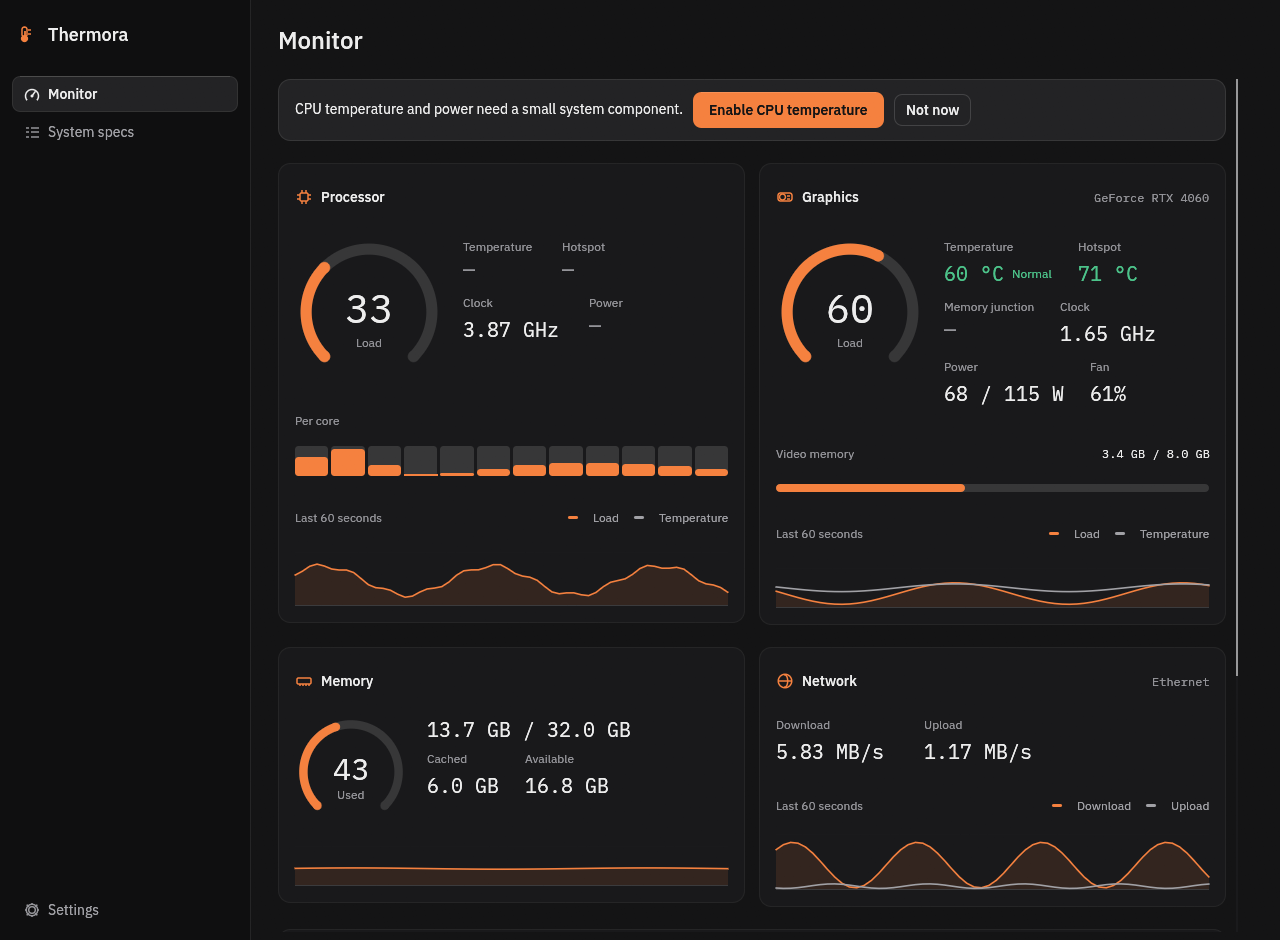
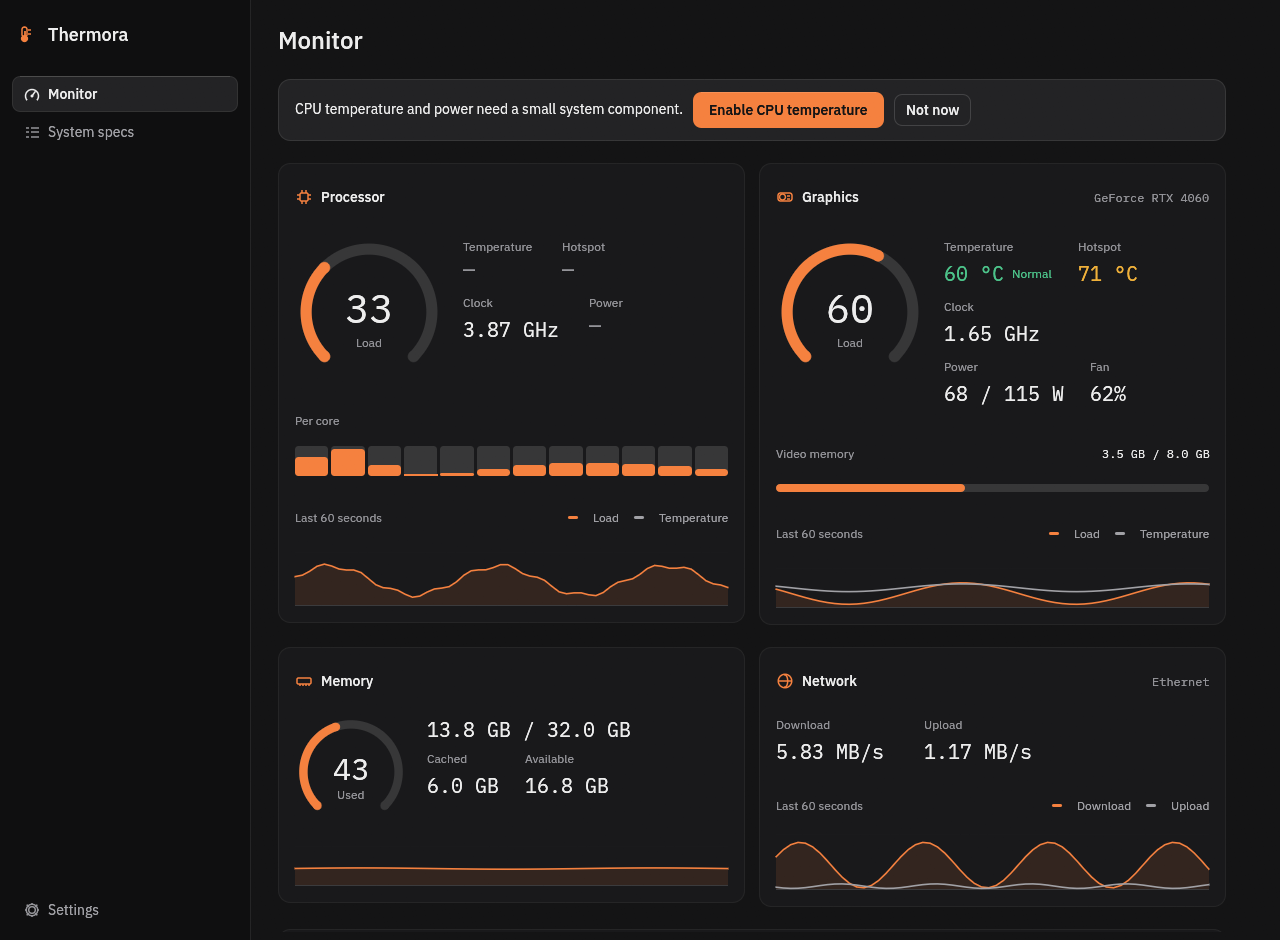
Hide readings the hardware cannot give, GPU power fallbacks, active time from idle time with a per-drive chart, cheaper window

diff --git a/src/sensors/nvidia.rs b/src/sensors/nvidia.rs
@@ -6,6 +6,19 @@ use crate::specs::{Component, Field, Group};
 use nvml_wrapper::enum_wrappers::device::{Clock, TemperatureSensor};
 use nvml_wrapper::Nvml;
 
+/// Which source gave the GPU power draw this session (shown by `--probe`).
+static POWER_SOURCE: std::sync::Mutex<&'static str> = std::sync::Mutex::new("none");
+
+fn set_source(s: &'static str) {
+    if let Ok(mut g) = POWER_SOURCE.lock() {
+        *g = s;
+    }
+}
+
+pub fn power_source() -> &'static str {
+    POWER_SOURCE.lock().map(|g| *g).unwrap_or("none")
+}
+
 pub struct Nvidia {
     nvml: Nvml,
     #[cfg(windows)]
@@ -43,7 +56,7 @@ impl Nvidia {
             vram_used: mem.as_ref().map(|m| m.used).unwrap_or(0),
             vram_total: mem.as_ref().map(|m| m.total).unwrap_or(0),
             clock_mhz: Some(rd(d.clock_info(Clock::Graphics)).map(|c| c as f32)),
-            power: Some(rd(d.power_usage()).map(|p| p as f32 / 1000.0)),
+            power: Some(self.power(&d).ok_or(Why::NotReported)),
             power_limit: Some(rd(d.enforced_power_limit()).map(|p| p as f32 / 1000.0)),
             fan: Some(rd(d.fan_speed(0)).map(|f| f as f32)),
         };
@@ -63,6 +76,42 @@ impl Nvidia {
             }
         }
         Some(g)
+    }
+
+    /// GPU power in watts. Tries, in order: NVML instantaneous power, NVML field values (instant, then average),
+    /// then the private NvAPI power topology (a percentage of the board's power limit) times the limit.
+    fn power(&self, d: &nvml_wrapper::Device) -> Option<f32> {
+        if let Ok(mw) = d.power_usage() {
+            set_source("NVML power_usage");
+            return Some(mw as f32 / 1000.0);
+        }
+        use nvml_wrapper::structs::device::FieldId;
+        for (id, name) in [(186u32, "NVML field POWER_INSTANT"), (185, "NVML field POWER_AVERAGE")] {
+            if let Ok(v) = d.field_values_for(&[FieldId(id)]) {
+                if let Some(Ok(sample)) = v.into_iter().next() {
+                    use nvml_wrapper::enums::device::SampleValue::*;
+                    let mw = match sample.value {
+                        Ok(U32(x)) => x as f64,
+                        Ok(U64(x)) => x as f64,
+                        Ok(I64(x)) => x as f64,
+                        Ok(F64(x)) => x,
+                        _ => continue,
+                    };
+                    if mw > 0.0 {
+                        set_source(name);
+                        return Some(mw as f32 / 1000.0);
+                    }
+                }
+            }
+        }
+        #[cfg(windows)]
+        if let (Some(api), Ok(limit)) = (&self.nvapi, d.enforced_power_limit()) {
+            if let Some(pct) = api.power_percent() {
+                set_source("NvAPI power topology x limit");
+                return Some(pct / 100.0 * (limit as f32 / 1000.0));
+            }
+        }
+        None
     }
 
     pub fn specs(&self) -> Vec<Component> {
@@ -113,6 +162,7 @@ mod nvapi {
         _lib: Library,
         gpu: *mut c_void,
         get_sensors: unsafe extern "C" fn(*mut c_void, *mut Sensors) -> i32,
+        get_power: Option<unsafe extern "C" fn(*mut c_void, *mut PowerTopology) -> i32>,
         mask: u32,
     }
 
@@ -125,6 +175,14 @@ mod nvapi {
         mask: u32,
         reserved: [i32; 8],
         temps: [i32; 32],
+    }
+
+    #[repr(C)]
+    struct PowerTopology {
+        version: u32,
+        count: u32,
+        /// (domain, reserved, power in thousandths of a percent of the power limit, reserved) x 4
+        entries: [[u32; 4]; 4],
     }
 
     type Query = unsafe extern "C" fn(u32) -> *const c_void;
@@ -151,7 +209,9 @@ mod nvapi {
                     return None;
                 }
                 let get_sensors: unsafe extern "C" fn(*mut c_void, *mut Sensors) -> i32 = std::mem::transmute(sensors);
-                let mut api = NvApi { _lib: lib, gpu: handles[0], get_sensors, mask: 0 };
+                let power = q(0xEDCF624E);
+                let get_power = if power.is_null() { None } else { Some(std::mem::transmute::<*const c_void, unsafe extern "C" fn(*mut c_void, *mut PowerTopology) -> i32>(power)) };
+                let mut api = NvApi { _lib: lib, gpu: handles[0], get_sensors, get_power, mask: 0 };
                 // Same probing as LibreHardwareMonitor: grow the mask bit by bit until the call fails.
                 let mut s = Sensors { version: (std::mem::size_of::<Sensors>() as u32) | (2 << 16), mask: 0, reserved: [0; 8], temps: [0; 32] };
                 for bit in 0..32 {
@@ -163,6 +223,18 @@ mod nvapi {
                 }
                 (api.mask != 0).then_some(api)
             }
+        }
+
+        /// Board power as a percentage of the power limit (NvAPI_GPU_ClientPowerTopologyGetStatus, domain 0 = GPU).
+        pub fn power_percent(&self) -> Option<f32> {
+            let f = self.get_power?;
+            let mut t = PowerTopology { version: (std::mem::size_of::<PowerTopology>() as u32) | (1 << 16), count: 0, entries: [[0; 4]; 4] };
+            // SAFETY: valid handle and a struct of the version we pass; the status is checked.
+            if unsafe { f(self.gpu, &mut t) } != 0 || t.count == 0 {
+                return None;
+            }
+            let e = t.entries.iter().take(t.count.min(4) as usize).find(|e| e[0] == 0 && e[2] > 0)?;
+            Some(e[2] as f32 / 1000.0)
         }
 
         pub fn thermal_sensors(&self) -> Result<[i32; 32], i32> {

diff --git a/src/ui/monitor.rs b/src/ui/monitor.rs
@@ -18,7 +18,7 @@ fn band_color(b: Band, p: &Pal) -> Color32 {
 
 /// A value that eases to its target: numbers glide instead of jumping.
 fn glide(ui: &Ui, key: &str, target: f32) -> f32 {
-    ui.ctx().animate_value_with_time(egui::Id::unique(("glide", key)), target, 0.45)
+    ui.ctx().animate_value_with_time(egui::Id::unique(("glide", key)), target, 0.2)
 }
 
 /// What a tile shows.
@@ -41,6 +41,15 @@ impl App {
     fn tile(&self, ui: &mut Ui, p: &Pal, label: &str, val: Val, band: Option<(Band, &str)>) -> bool {
         let t = self.s();
         let mut clicked = false;
+        // A reading this hardware can never give is hidden (it would be a permanent dash). A dash stays only for what
+        // needs an action (CPU temperature before Enable) or is just starting.
+        match &val {
+            Val::Text(..) => {
+                self.seen.borrow_mut().insert(label.to_string());
+            }
+            Val::Missing(Why::NotReported) if !self.seen.borrow().contains(label) => return false,
+            _ => {}
+        }
         ui.vertical(|ui| {
             ui.spacing_mut().item_spacing.y = 2.0;
             ui.label(RichText::new(label).font(theme::reg(12.0)).color(p.muted));
@@ -304,10 +313,10 @@ impl App {
                             let b = band(SensorKind::Nvme, *v);
                             ui.label(RichText::new(format!("{v:.0} °C")).font(theme::mono(14.0)).color(band_color(b, p)));
                         }
-                        Some(Err(w)) => {
+                        Some(Err(w)) if *w != Why::NotReported => {
                             ui.label(RichText::new(crate::specs::DASH).font(theme::mono(14.0)).color(p.muted)).on_hover_text(why_text(t, *w));
                         }
-                        None => {}
+                        Some(Err(_)) | None => {}
                     };
                 });
             });
@@ -315,13 +324,16 @@ impl App {
             ui.horizontal_top(|ui| {
                 ui.spacing_mut().item_spacing.x = 28.0;
                 ui.vertical(|ui| {
-                    ui.set_width(150.0);
-                    ui.label(RichText::new(t.activity).font(theme::reg(12.0)).color(p.muted));
-                    ui.add_space(2.0);
-                    let (r, _) = ui.allocate_exact_size(vec2(130.0, 8.0), Sense::hover());
-                    widgets::bar(ui.painter(), r, glide(ui, &format!("disk{i}"), d.busy) / 100.0, p.accent, widgets::track(p));
-                    ui.add_space(2.0);
-                    ui.label(RichText::new(format!("{:.0}%", d.busy)).font(theme::mono(13.0)).color(p.text));
+                    ui.spacing_mut().item_spacing.y = 2.0;
+                    ui.horizontal(|ui| {
+                        ui.spacing_mut().item_spacing.x = 8.0;
+                        ui.label(RichText::new(t.activity).font(theme::reg(12.0)).color(p.muted));
+                        ui.label(RichText::new(format!("{:.0}%", glide(ui, &format!("disk{i}"), d.busy))).font(theme::mono(12.0)).color(p.text));
+                    });
+                    let (rd, wr): (Vec<f32>, Vec<f32>) = self.hist.disks.get(i).map(|h| (h.0.iter().collect(), h.1.iter().collect())).unwrap_or_default();
+                    let max = rd.iter().chain(wr.iter()).cloned().fold(1_000_000.0, f32::max) * 1.1;
+                    let (r, _) = ui.allocate_exact_size(vec2(210.0, 40.0), Sense::hover());
+                    widgets::sparkline(ui.painter(), r, &[(&rd, p.accent), (&wr, p.text2)], max, p.line_hi);
                 });
                 self.tile(ui, p, t.read, Val::Text(fmt_rate(d.read), p.text), None);
                 self.tile(ui, p, t.write, Val::Text(fmt_rate(d.write), p.text), None);

diff --git a/src/ui/widgets.rs b/src/ui/widgets.rs
@@ -260,18 +260,20 @@ pub fn sparkline(painter: &Painter, rect: Rect, series: &[(&[f32], Color32)], ma
         let off = n + 1 - data.len();
         let pts: Vec<Pos2> = data.iter().enumerate().map(|(k, v)| pos2(rect.left() + rect.width() * (k + off) as f32 / n as f32, rect.bottom() - 1.5 - (rect.height() - 3.0) * (v / max).clamp(0.0, 1.0))).collect();
         if i == 0 {
-            // Flat fill: thin vertical strips between the baseline and the line.
+            // Flat fill under the line: one mesh, a strip of quads between the line and the baseline.
             let fill = theme::alpha(*col, 30);
-            for w in pts.windows(2) {
-                let (a, b) = (w[0], w[1]);
-                let mut m = egui::epaint::Mesh::default();
-                for q in [a, b, pos2(b.x, rect.bottom() - 1.0), pos2(a.x, rect.bottom() - 1.0)] {
-                    m.colored_vertex(q, fill);
-                }
-                m.add_triangle(0, 1, 2);
-                m.add_triangle(0, 2, 3);
-                painter.add(Shape::mesh(m));
+            let base = rect.bottom() - 1.0;
+            let mut m = egui::epaint::Mesh::default();
+            for q in &pts {
+                m.colored_vertex(*q, fill);
+                m.colored_vertex(pos2(q.x, base), fill);
             }
+            for k in 0..(pts.len() as u32 - 1) {
+                let i = k * 2;
+                m.add_triangle(i, i + 1, i + 2);
+                m.add_triangle(i + 1, i + 3, i + 2);
+            }
+            painter.add(Shape::mesh(m));
         }
         painter.add(Shape::line(pts, PathStroke::new(1.6, *col)));
     }

diff --git a/src/main.rs b/src/main.rs
@@ -148,9 +148,11 @@ fn app_icon() -> egui::IconData {
 
 /// A console check of this computer's sensors: prints a few readings once a second.
 fn probe(secs: u32) {
+    #[cfg(windows)]
+    sensors::link::set_enabled(setup::is_enabled());
     let mut c = sensors::platform_collector();
     println!("Thermora probe, {secs} s");
-    std::thread::sleep(std::time::Duration::from_millis(1100));
+    std::thread::sleep(std::time::Duration::from_millis(3500));
     for i in 0..secs {
         let l = sensors::Collector::poll(&mut *c);
         let show = |r: &Option<model::Rd<f32>>| match r {
@@ -165,7 +167,7 @@ fn probe(secs: u32) {
             show(&l.cpu.temp),
             show(&l.cpu.hotspot),
             show(&l.cpu.power),
-            l.gpu.as_ref().map(|g| format!("{:.0}% {} C hot {}", g.load, show(&g.temp), show(&g.hotspot))).unwrap_or("-".into()),
+            l.gpu.as_ref().map(|g| format!("{:.0}% {} C hot {} mem {} power {} fan {}", g.load, show(&g.temp), show(&g.hotspot), show(&g.mem_temp), show(&g.power), show(&g.fan))).unwrap_or("-".into()),
             l.ram.used >> 20,
             l.ram.total >> 20,
             l.net.adapter,
@@ -174,4 +176,5 @@ fn probe(secs: u32) {
         );
         std::thread::sleep(std::time::Duration::from_secs(1));
     }
+    println!("gpu power source: {}", sensors::nvidia::power_source());
 }

diff --git a/src/model.rs b/src/model.rs
@@ -265,13 +265,15 @@ pub struct History {
     pub ram: Ring,
     pub down: Ring,
     pub up: Ring,
+    /// Per drive: (read, write) bytes per second.
+    pub disks: Vec<(Ring, Ring)>,
 }
 
 impl History {
     pub const POINTS: usize = 60;
     pub fn new() -> Self {
         let r = || Ring::new(Self::POINTS);
-        Self { cpu_load: r(), cpu_temp: r(), gpu_load: r(), gpu_temp: r(), ram: r(), down: r(), up: r() }
+        Self { cpu_load: r(), cpu_temp: r(), gpu_load: r(), gpu_temp: r(), ram: r(), down: r(), up: r(), disks: Vec::new() }
     }
 
     pub fn push(&mut self, l: &Live) {
@@ -288,6 +290,13 @@ impl History {
         self.ram.push(if l.ram.total > 0 { l.ram.used as f32 / l.ram.total as f32 * 100.0 } else { 0.0 });
         self.down.push(l.net.down as f32);
         self.up.push(l.net.up as f32);
+        while self.disks.len() < l.disks.len() {
+            self.disks.push((Ring::new(Self::POINTS), Ring::new(Self::POINTS)));
+        }
+        for (h, d) in self.disks.iter_mut().zip(&l.disks) {
+            h.0.push(d.read as f32);
+            h.1.push(d.write as f32);
+        }
     }
 }
 

diff --git a/src/sensors/win.rs b/src/sensors/win.rs
@@ -252,7 +252,7 @@ impl WinCollector {
         let pdh = Pdh::new(&[
             ("cpu_load", r"\Processor Information(*)\% Processor Time"),
             ("cpu_perf", r"\Processor Information(*)\% Processor Performance"),
-            ("disk_busy", r"\PhysicalDisk(*)\% Disk Time"),
+            ("disk_busy", r"\PhysicalDisk(*)\% Idle Time"),
             ("disk_r", r"\PhysicalDisk(*)\Disk Read Bytes/sec"),
             ("disk_w", r"\PhysicalDisk(*)\Disk Write Bytes/sec"),
             ("net_rx", r"\Network Interface(*)\Bytes Received/sec"),
@@ -320,7 +320,8 @@ impl WinCollector {
             let title = if d.model.is_empty() { format!("Disk {}", d.index) } else { d.model.clone() };
             out.push(DiskLive {
                 name: title,
-                busy: (*b as f32).clamp(0.0, 100.0),
+                // Task Manager's "Active time": 100 minus the idle time (% Disk Time is unreliable on NVMe).
+                busy: (100.0 - *b as f32).clamp(0.0, 100.0),
                 read: get(&rd),
                 write: get(&wr),
                 temp: Some(temp.map(|t| t as f32).ok_or(Why::NotReported)),

diff --git a/src/strings.rs b/src/strings.rs
@@ -132,7 +132,7 @@ const EN: S = S {
     available: "Available",
     download: "Download",
     upload: "Upload",
-    activity: "Activity",
+    activity: "Active time",
     read: "Read",
     write: "Write",
     free_of: "{free} free of {total}",
@@ -268,7 +268,7 @@ const RU: S = S {
     available: "Доступно",
     download: "Загрузка",
     upload: "Отдача",
-    activity: "Активность",
+    activity: "Время активности",
     read: "Чтение",
     write: "Запись",
     free_of: "свободно {free} из {total}",
@@ -404,7 +404,7 @@ const UK: S = S {
     available: "Доступно",
     download: "Завантаження",
     upload: "Віддача",
-    activity: "Активність",
+    activity: "Час активності",
     read: "Читання",
     write: "Запис",
     free_of: "вільно {free} з {total}",

diff --git a/src/ui/mod.rs b/src/ui/mod.rs
@@ -87,6 +87,8 @@ pub struct App {
     pub specs: specs_page::State,
     pub settings: settings::State,
     pub access: access::State,
+    /// Readings that showed a value at least once this session; a reading the hardware never gives stays hidden.
+    pub seen: std::cell::RefCell<std::collections::HashSet<String>>,
     visible: Arc<AtomicBool>,
     cfg_dirty: Option<f64>,
     shots: Option<Shots>,
@@ -152,6 +154,7 @@ impl App {
             specs: specs_page::State::new(demo),
             settings: settings::State::new(),
             access: access::State::new(demo),
+            seen: Default::default(),
             visible,
             cfg_dirty,
             shots,
